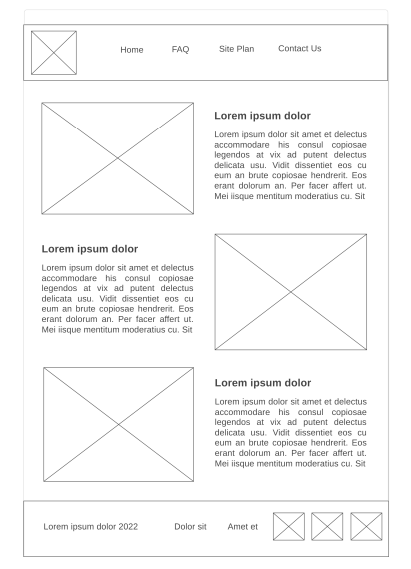
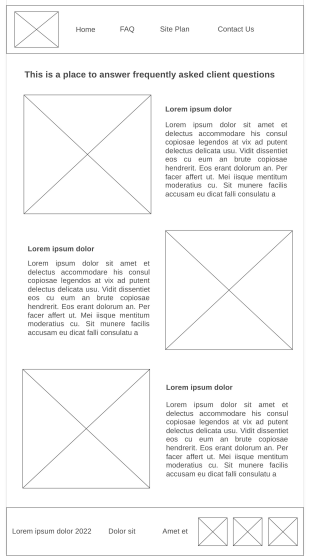
faq and personal site plan

diff --git a/sfg/site-plan.html b/sfg/site-plan.html
@@ -127,7 +127,9 @@
     <p>
         Playing games helps in maintaining a healthy life and is beneficial in various ways. It improves blood flow, improves concentration, regulates the mind and body, etc. Involvement in games and sports keeps a person physically and mentally fit.
         There are a lot of benefits that we will earn by playing games like they speed up response times, encourage teamwork, stimulate creativity, focus and visual memory, improve strategy and leadership, teach languages and also critical thinking.    
-        In fact, playing makes us happy and sometimes bring family together.
+        In fact, playing makes us happy and sometimes bring family together. 
+        For my expectation, I want to tell you that my favorite game is free fire. It's been 1 year since I started to play and I really love it. I used to play it on my smartphone and I noticed that it is much better on smartphone than on pc because 
+        your moves are way faster but I don't know for the other player. It is just my opinion but in fact the game is good.
     </p>
     <p>Images for the Home page</p>
         <img src="images/playing.jpeg" alt="image for homepage">
@@ -139,6 +141,8 @@
         Looking for the best mobile platform for gaming, then Android is the clear choice. With more games available, lower hardware requirements, and more affordable options, there is no reason not to choose Android over iOS.
         There are plenty of Android games you can play with friends so I recommend checking out the most popular titles like PUBG Mobile and Garena Free Fire.
         In fact, android games provide a hight graphics and gameplay too that satisfy all the people who play and some of them are realistic like in a real life though.
+        For now, if you want to play these games, you can find them on Google Play Store. Make sure you are connected to wifi because if there is no connection it won't work.
+        So when the play store is open, type on the search bar thoses games and you'll find them and you need just to press the download and wait.
     </p>
     <p>Images for Android games</p>
         <img src="images/PUBG.jpg" alt="image for page">
@@ -150,6 +154,9 @@
         We know that PC gaming offers superior game titles and graphics. In fact, about the visual quality, PC is the best. Computers can run more powerful software due to their components and sizes.
         Roughly, we have many advantages by having a PC including the ability to customize it, create hotkeys, sharper and more lifelike visuals, superior accuracy with peripherals, and greater ability to modify games.
         For now, I'm going to show you the top 3 games on PC that everyone loves: the first is ROBLOX, second is Minecraft and the third is Fortnite. There are many other but it's just the top 3.
+        So if you are interested by these games, I recommend you to check this website because this is where you can download them. Here: ocean of games, world of pc games... in reality there are others but those are the Website
+        that frequently visit to download them. When you are in the website, you need just to type the name of the game, click on it and bellow there are some descriptions about the game itself, and after you will find a button download.
+        You press it untill it's working, but to know that it's really working, the page must load on the same page, not in another tab I think you know what I mean by that. You just need to wait a little longer and it will start. 
     </p>
     <p>Images for computer games</p>
         <img src="images/Robox.jpg" alt="image for page3">
@@ -165,19 +172,19 @@
 
     <h3>Home</h3>
     <p>         
-        [Any additional details about home that the wireframe does not make clear]
+        Some benefits you will have by playing 
     </p>
     <img src="images/home-wireframe.PNG" alt="home page wireframe">
 
     <h3>Android games</h3>
     <p>         
-        [Any additional details about page 2 that the wireframe does not make clear]
+        Showing the best games on android
     </p>
     <img src="images/android-games-wireframe.PNG" alt="android games wireframe">
 
     <h3>Computer games</h3>
     <p>         
-        [Any additional details about page 3 that the wireframe does not make clear]
+        Showing the best games on computer
     </p>
     <img src="images/computer-games-wireframe.PNG" alt="computer games wireframe">
     </main>

diff --git a/wwr/faq.html b/wwr/faq.html
@@ -5,7 +5,7 @@
     <meta http-equiv="X-UA-Compatible" content="IE=edge">
     <meta name="viewport" content="width=device-width, initial-scale=1.0">
     <title>Whitewater Rafting Vacations | Dry Oar Boating | Home</title>
-    <link rel="stylesheet" href="styles/styles.css">
+    <link rel="stylesheet" href="styles/faq.css">
 </head>
 <body>
     <div id="content">
@@ -20,22 +20,34 @@
                 <a href="contactus.html">Contact Us</a>
             </nav>
         </header>
-
-        <div id="hero">
-                <div id="hero-box">
-                    <img id="hero-img" src="images/hero.jpg" alt="people">
-                </div>
-                <section id="hero-msg">
-                    <h1 class="home-title">Have An Adventure</h1>
-                    <h4>Make Memories with Dry Oar</h4>
-                    <div class='button-box'>
-                        <a class='book' href="contactus.html">Book Now</a>
-                    </div>
-                </section>
+        <div id="faq">
+            <h1>This is as place frequently asked client questions</h1>
         </div>
-
-        <main class="home-grid">
-        </main>
+        <div id="hero">
+            <section class="kids-img">
+                <img src="images/kids.jpg" alt="kids">
+            </section>
+            <section class="kids-paragraph">
+                <h2>Is this a good trip for kids? What are the age ranges you allow?</h2>
+                <p>Absolutely this is a good trip for children of all ages. We have found however that children over the age of 8 seem to enjoy it more overall (And parents especially enjoy it more if their children are all over 8). A common concern we get from parents is that their children will be bored stuck on a boat for hours at a time. Surprisingly we deal with very few bored children of any age. The areas we are rafting through are some of the most beautiful in the world, and you never know what you might see around any corner. Not to mention the rapids which keep things very interesting. Each boat also comes equipped with a guide. It has been proven that river guides are unable to go for very long at all without telling stories...some of which are even true!</p>
+            </section>
+            <section class="safe-paragraph">
+                <h2>Is white water rafting safe? I don't even know how to swim? Can I still come?</h2>
+                <p>As with all adventure sports, there is an inherent and assumed element of risk. To help ensure your safety, our guides are all certified in Wilderness First aid and all start with at least 3 years of rafting experience. The most common injuries are sunburns and injuries that occur on land.
+                Everyone on commercial rafting trips wears coast guard approved life vest or personal flotation device (PFD). Many non swimmers go on rafting trips and have a great time. Your guide will give you an in depth and engaging safety talk before your trip begins explaining what you should prepare for and do in the event that you fall out of the raft.</p>
+            </section>
+            <section class="safe-img">
+                <img src="images/safety.jpg" alt="safe">
+            </section>
+            <section class="trip-img">
+                <img src="images/camping-equipment.jpg" alt="trip">
+            </section>
+            <section class="trip-paragraph">
+                <h2>What is included in the trip?</h2>
+                <p>We will provide all necessary camping equipment. This includes a sleeping bag, foam pad, waterproof duffle bag, small waterproof day bag, tent and a cot, eating utensils and camping chair.
+                We provided water and lemonade during the day. Coffee, tea and hot chocolate are provided during the morning and evening hours. You may bring beer, liquor and soft drinks (in reasonable amounts, 2 cans per day). You may purchase these items either the night before the trip, or on your way to the put-in. 3 meals per day, plus snacks</p>
+            </section>
+        </div>
         
         <footer>
             <p>Dry Oar &copy; 2022 - Tiana Naval</p>

diff --git a/wwr/styles/faq.css b/wwr/styles/faq.css
@@ -1,0 +1,145 @@
+@import url('https://fonts.googleapis.com/css2?family=IM+Fell+French+Canon&family=Lato:ital,wght@0,400;0,700;1,400&display=swap');
+
+body {
+    background-color: #ffff;
+    margin: 0;
+    padding: 0;
+}
+
+p {
+    font-family: Helvetica, sans-serif;
+}
+
+h1, h2, h4 {
+    font-family: Arial;
+}
+
+h2 {
+    margin: 0;
+}
+
+header {
+    display: grid;
+    grid-template-columns: 150px auto;
+    background-color: #151f45;
+}
+
+nav {
+    display: flex;
+    justify-content: space-around;
+}   
+
+nav a:hover {
+    background-color: #ffe11b;
+    color: #151f45;
+}
+
+footer a {
+    text-decoration: none;
+    color: white;
+}
+
+footer a:hover {
+    color: #ffe11b;
+}
+
+footer p {
+    font-size: 1.2em;
+} 
+
+footer p a:hover {
+    text-decoration: underline;
+}
+
+h4 {
+    color: white;
+}
+
+footer {
+    background-color: #151f45;
+    padding: 25px 50px;
+    margin-top: 200px;
+    display: flex;
+    justify-content: space-around;
+    align-items: center;
+}
+
+.social a img {
+    width: 100px;
+    height: 100px;
+    border-radius: 5%;
+}
+
+div {
+    max-width: 1600px;
+}
+
+#content {
+    margin: 0 auto;
+}
+
+nav a {
+    color: white;
+    text-decoration: none;
+    text-align: center;
+    padding: 35px;
+}
+
+.logo {
+    width: 80px;
+    border-radius: 50%;
+}
+
+#logo_link {
+    padding-top: 5px;
+    justify-self: center;
+    align-self: center;
+} 
+
+.icon {
+    width: 80px;
+    padding-top: 10px;
+}
+
+footer {
+    margin-top: 25px;
+}
+
+#hero {
+    display: grid;
+    grid-template-columns: 1fr 1fr;
+    grid-template-rows: repeat(3, 400px);
+    grid-gap: 75px;
+    margin: 75px 75px 75px 75px;
+}
+
+#faq {
+    margin: 50px;
+    text-align: center;
+    color: #151f45;
+}
+
+.kids-paragraph,.safe-paragraph,.trip-paragraph{
+    display: grid;
+    text-align: justify;
+    margin: 25px auto;
+    border-radius: 10px;
+    align-items: center;
+}
+
+.trip-paragraph p {
+    margin-top: -50px;
+}
+
+#hero img:hover {
+    opacity: .6;
+    transform: scale(1.1);
+    border-radius: 10px;
+}
+
+#hero img {
+    width: 100%;
+    height: 100%;
+    transition: transform .5s;
+    border-radius: 10px;
+}

diff --git a/wwr/site-plan-rafting.html b/wwr/site-plan-rafting.html
@@ -124,7 +124,7 @@
 
     <h3>FAQ</h3>
 
-    <img src="images/FAQ-wireframe.png" alt="page 2 wireframe">
+    <img src="images/faq-wireframe.png" alt="page 2 wireframe">
   </main>
 </body>
 
